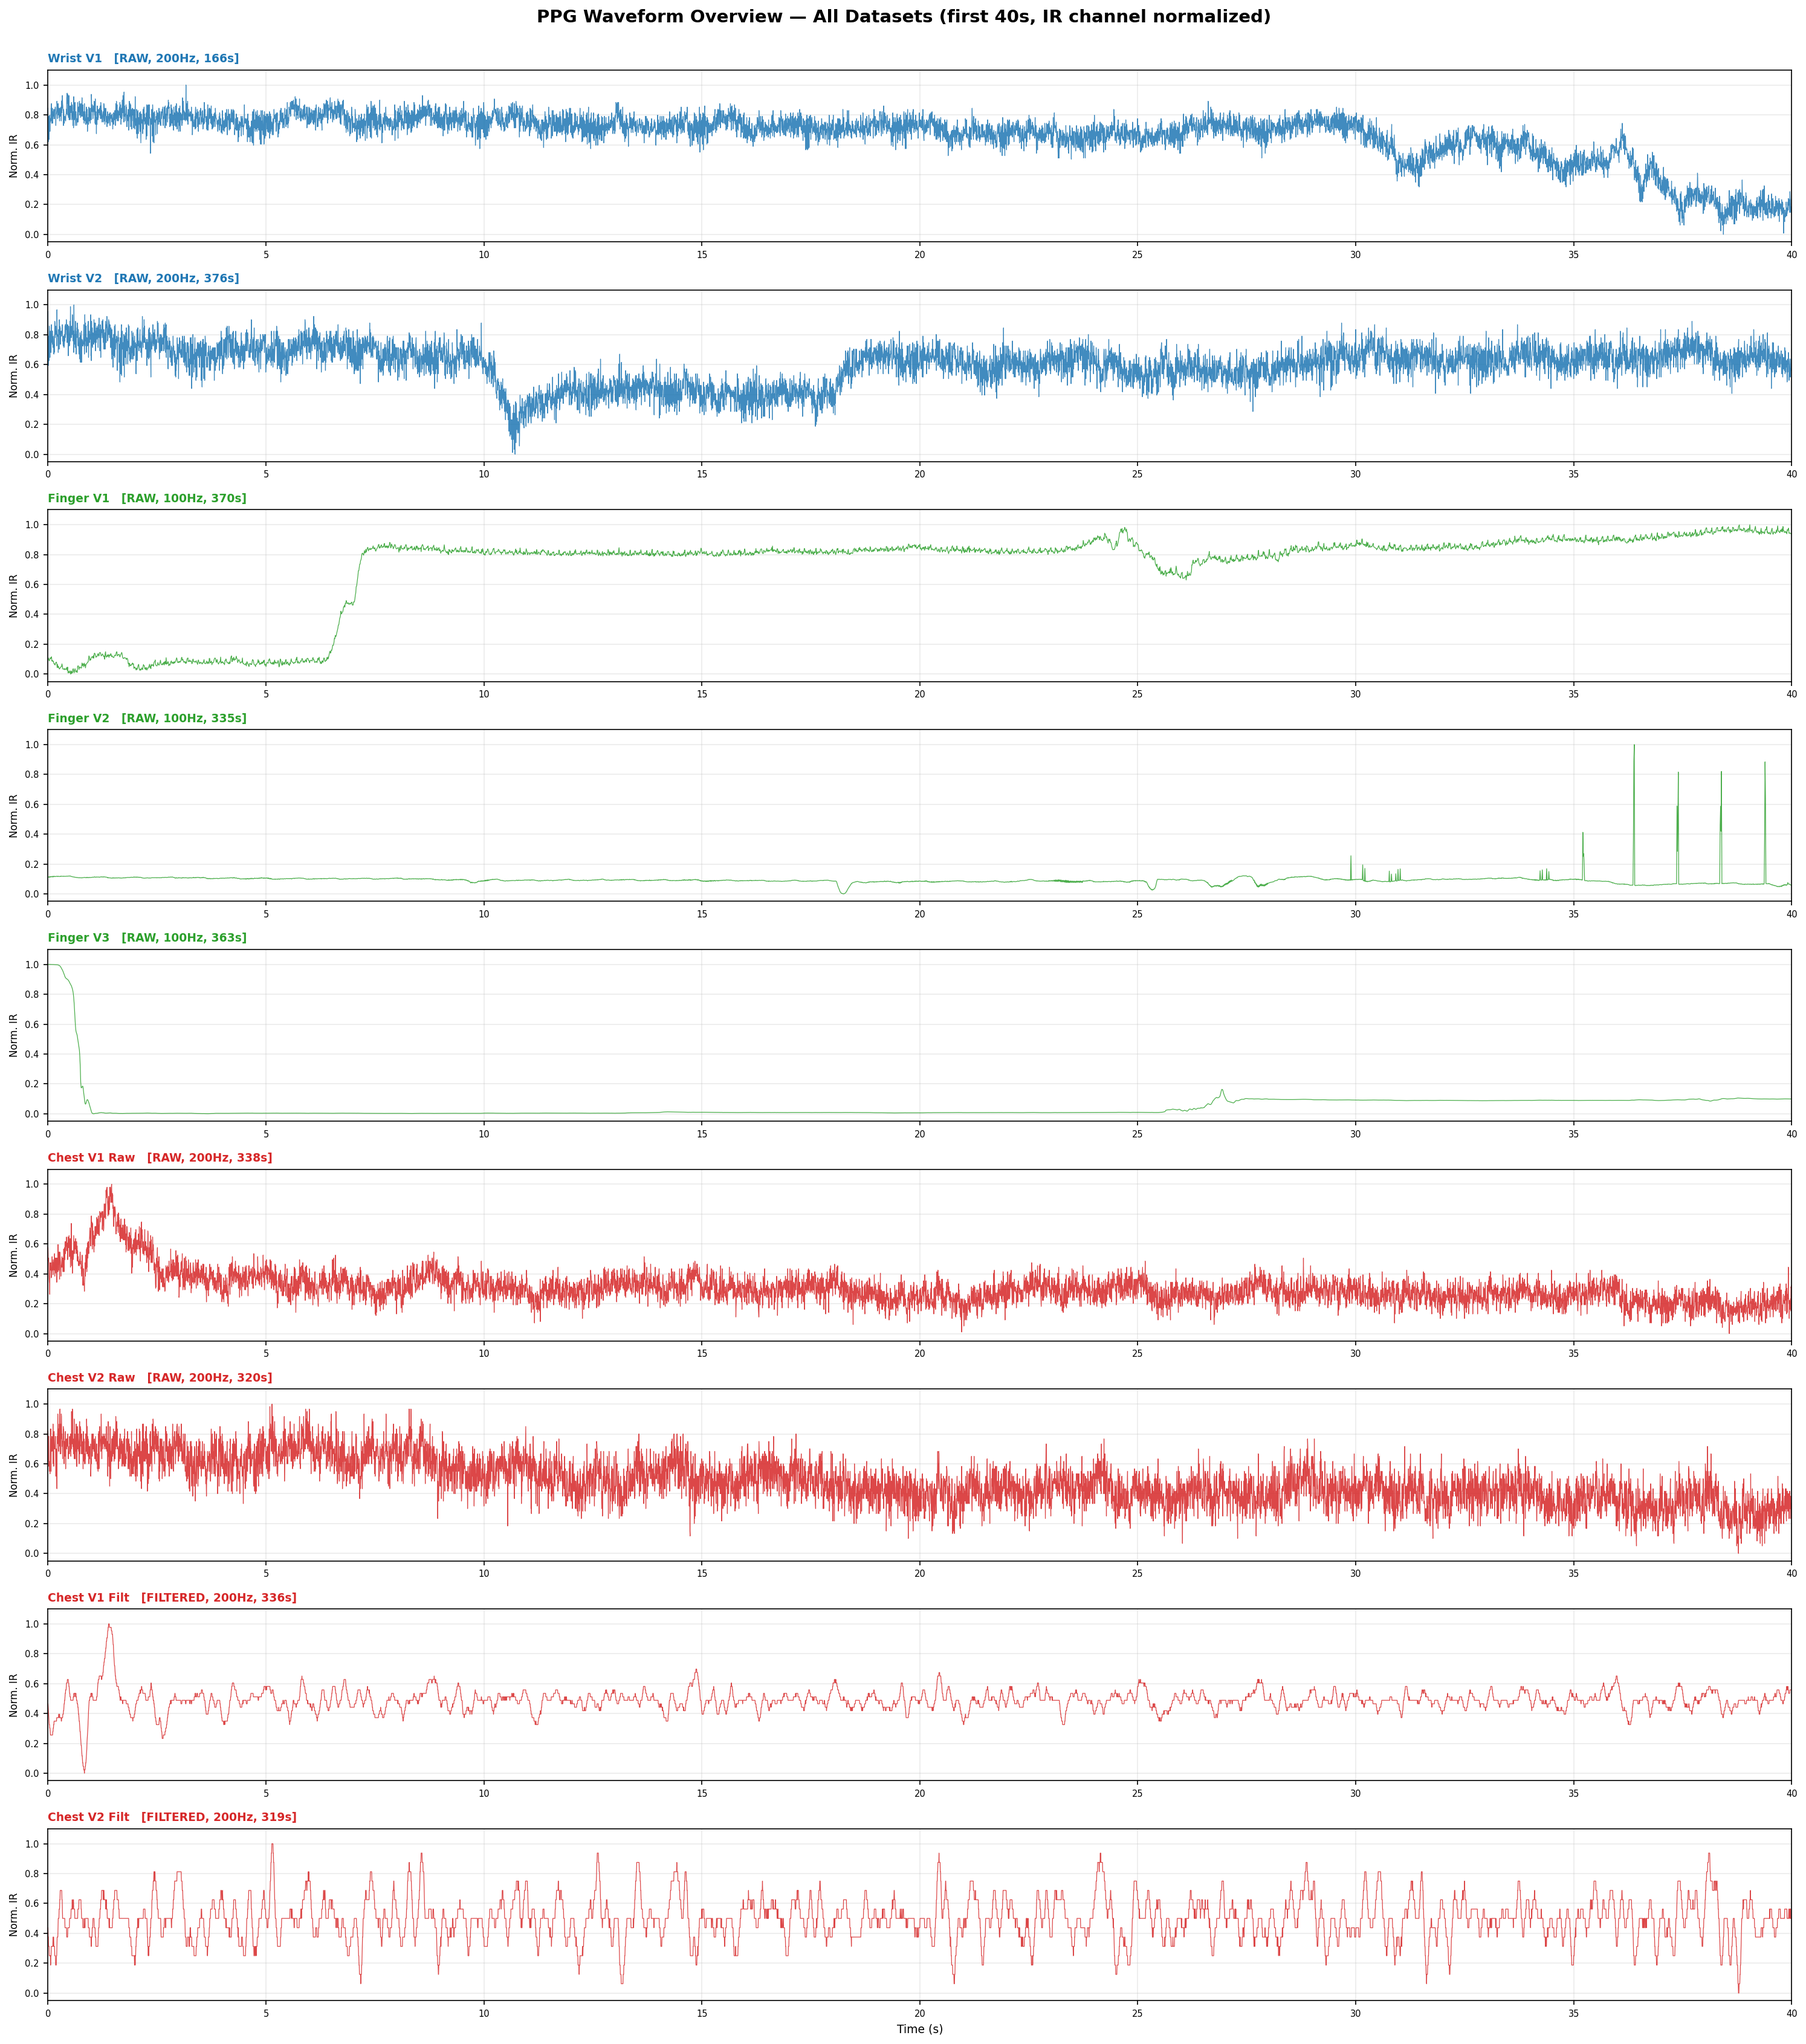
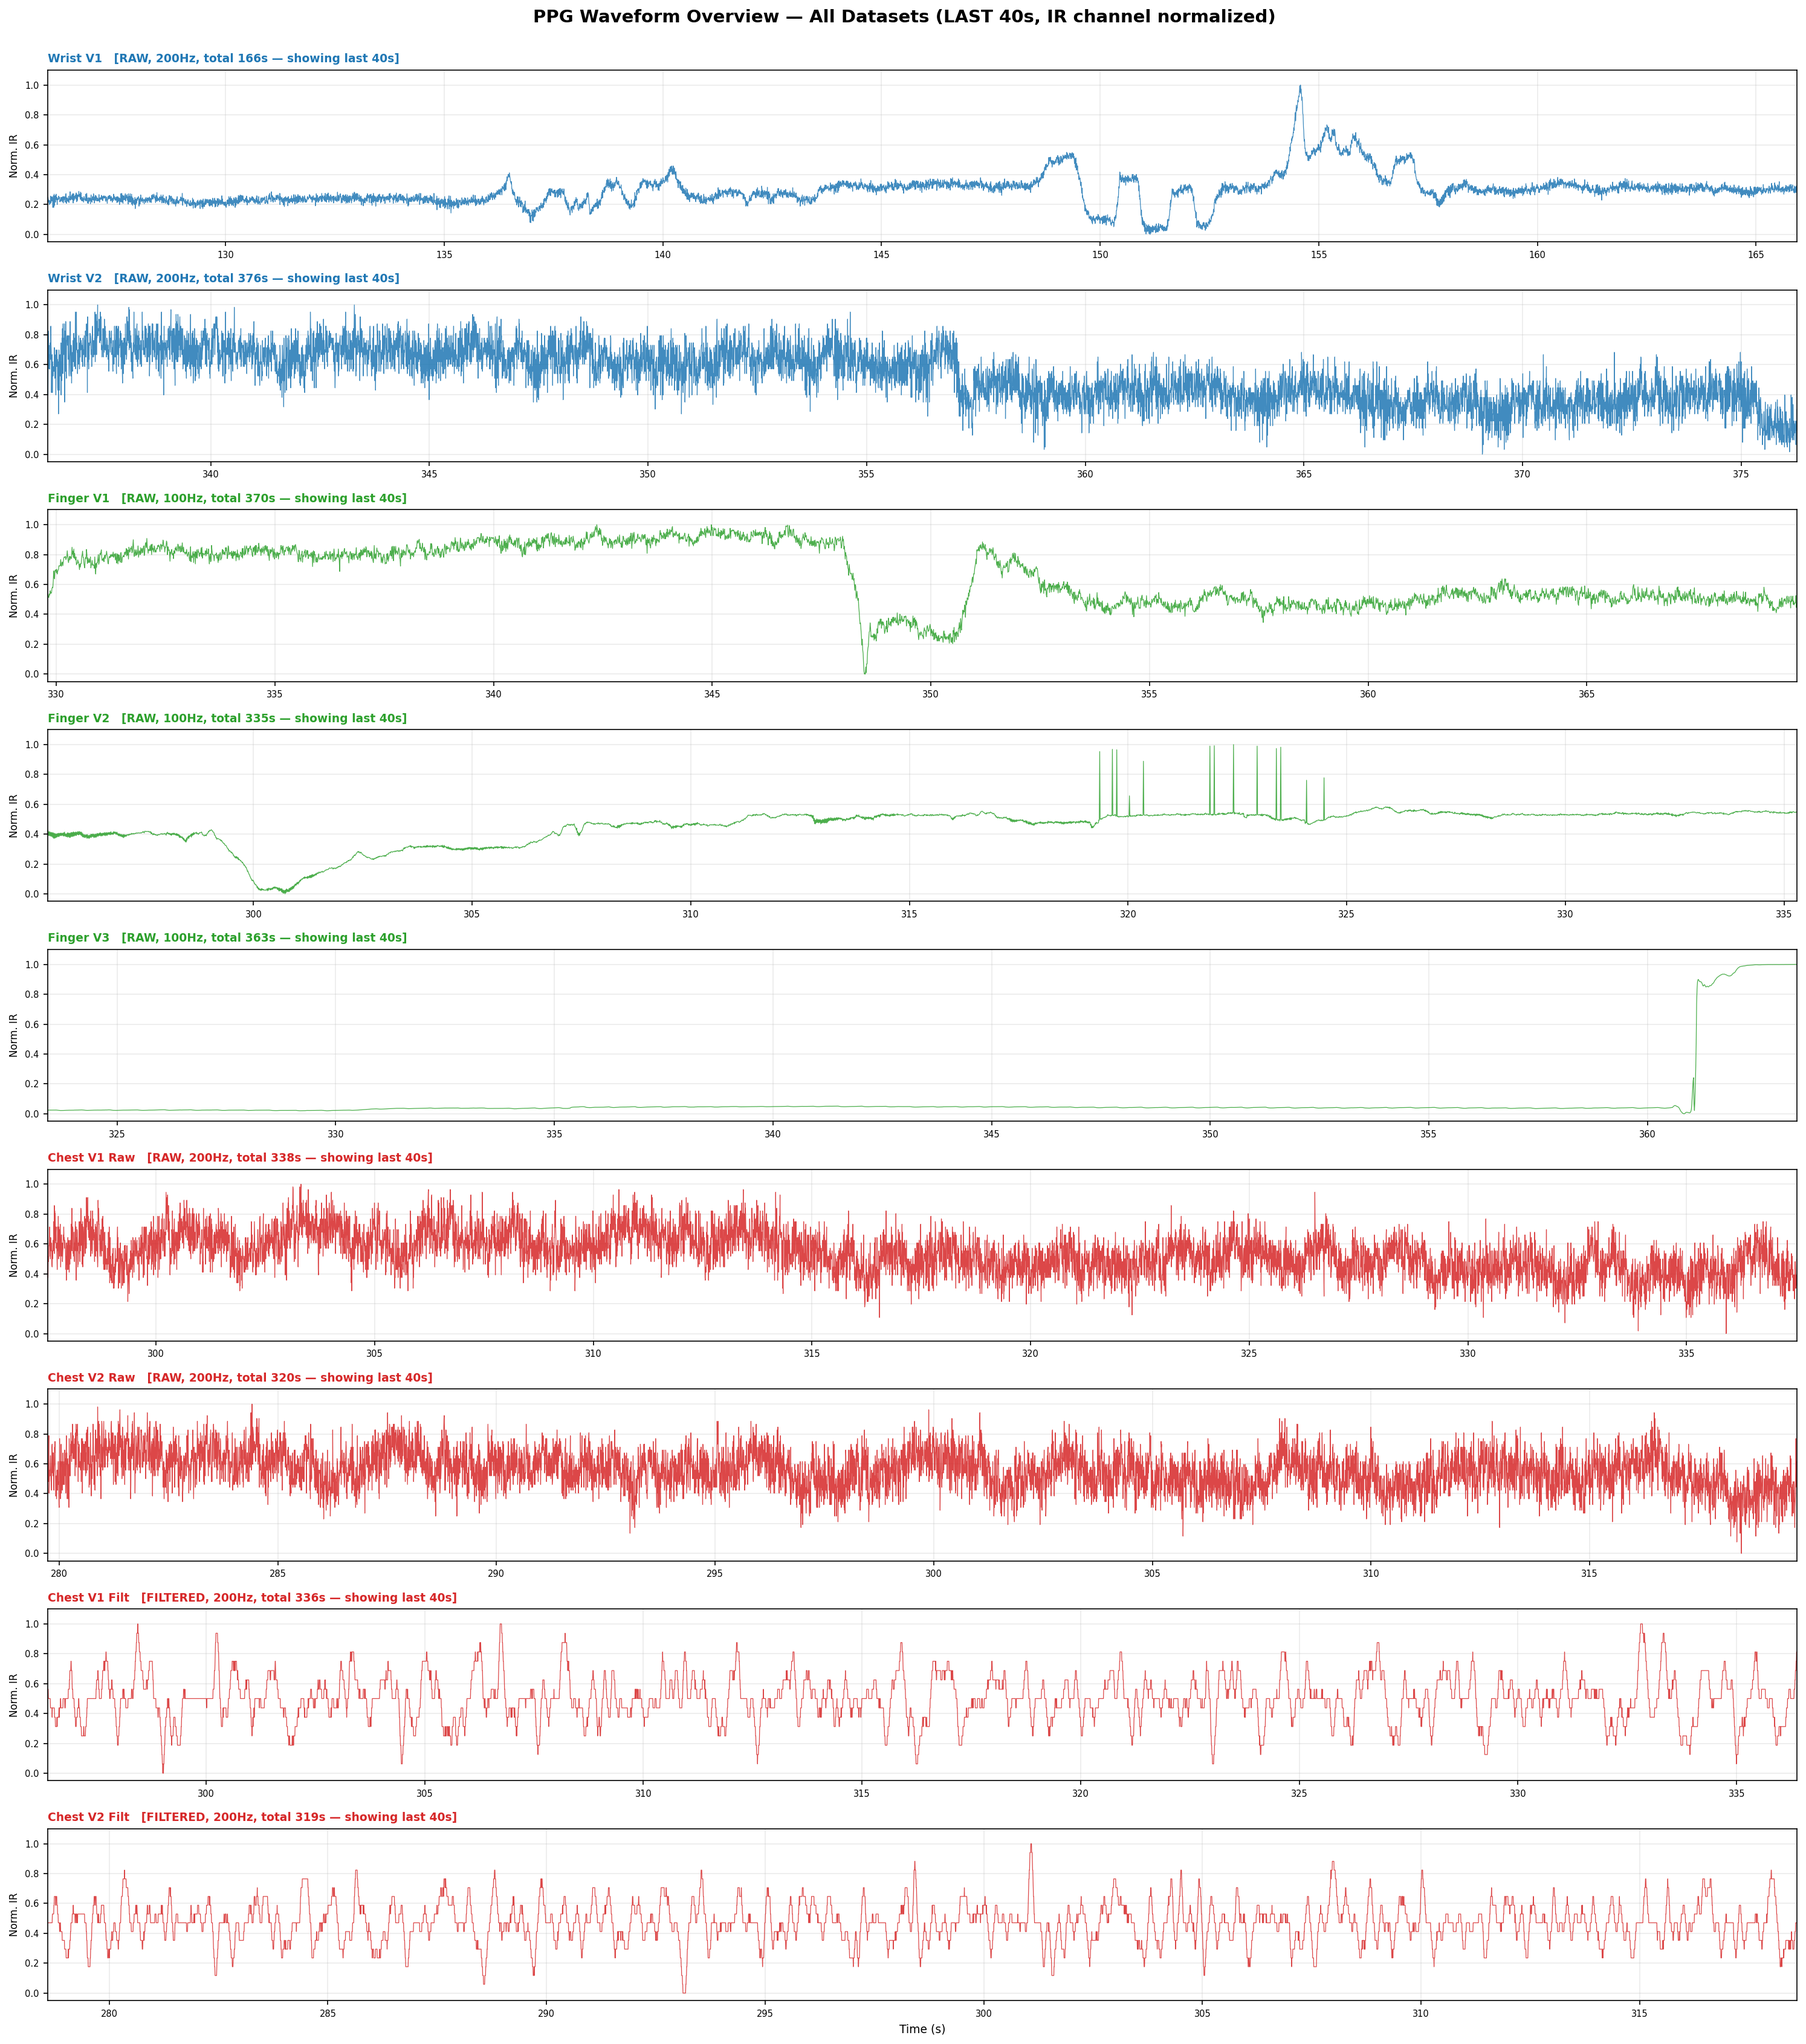
Use last 120s of data for metrics and visualizations
- Summary metrics now derived from the last TAIL_S=120s of each recording
  (post-settling, steady-state signal) instead of whole-file median
- Waveform overview shows last 40s of each file (not first 40s)
- PSD uses last 60s segment (not first 60s after t=10)
- Best waveform zoom uses last 15s window (not 5-20s from start)

Notable improvement: Finger V3 AC Amplitude 206 -> 302 counts in stable window

diff --git a/PPG analysis 0403/ppg_quality_report.py b/PPG analysis 0403/ppg_quality_report.py
@@ -53,6 +53,9 @@ THR = dict(
 
 GROUP_COLOR = {'Wrist': '#1f77b4', 'Finger': '#2ca02c', 'Chest': '#d62728'}
 
+# How many seconds from the END of each recording to use for stable summaries
+TAIL_S = 120.0   # last 2 minutes = post-settling, steady-state signal
+
 # ── Data loading ───────────────────────────────────────────────────────────────
 def load_dataset(label, group, subpath):
     fpath = os.path.join(BASE, subpath)
@@ -229,14 +232,23 @@ def compute_metrics(ds, win=10.0, step=2.0):
 
 # ── Summary per dataset ────────────────────────────────────────────────────────
 def summarise(ds, mets):
-    hrs = mets['hrs']
+    # Use only the last TAIL_S seconds of sliding windows for stable metrics
+    wt = mets['win_t']
+    tail = (wt >= wt[-1] - TAIL_S) if len(wt) > 0 else np.ones(len(wt), bool)
+
+    hrs     = mets['hrs'][tail]
+    pis_t   = mets['pis'][tail]
+    snrs_t  = mets['snrs'][tail]
+    amps_t  = mets['amps'][tail]
+    rrcvs_t = mets['rrcvs'][tail]
+
     valid_hr = (hrs > THR['hr_lo']) & (hrs < THR['hr_hi'])
-    pi_m    = float(np.nanmedian(mets['pis']))   if ds['ftype'] == 'raw' else np.nan
-    snr_m   = float(np.nanmedian(mets['snrs']))
-    amp_m   = float(np.nanmedian(mets['amps']))
-    hr_pct  = float(valid_hr.mean() * 100)       if len(hrs) > 0 else np.nan
-    rrcv_m  = float(np.nanmedian(mets['rrcvs'][valid_hr])) if valid_hr.any() else np.nan
-    agc_m   = float(ds['agc'])                   if not np.isnan(ds['agc']) else np.nan
+    pi_m    = float(np.nanmedian(pis_t))          if ds['ftype'] == 'raw' else np.nan
+    snr_m   = float(np.nanmedian(snrs_t))
+    amp_m   = float(np.nanmedian(amps_t))
+    hr_pct  = float(valid_hr.mean() * 100)        if len(hrs) > 0 else np.nan
+    rrcv_m  = float(np.nanmedian(rrcvs_t[valid_hr])) if valid_hr.any() else np.nan
+    agc_m   = float(ds['agc'])                    if not np.isnan(ds['agc']) else np.nan
 
     def grade(val, g, f):
         if np.isnan(val): return 'N/A'
@@ -258,16 +270,16 @@ def summarise(ds, mets):
 
 # ── PLOT 1: Waveform Overview ──────────────────────────────────────────────────
 def plot_waveforms(all_ds):
-    SHOW_S = 40  # seconds to display
-    labels = [d['label'] for d in all_ds]
+    SHOW_S = 40  # seconds to display from the END of each recording
     n = len(all_ds)
     fig, axes = plt.subplots(n, 1, figsize=(20, 2.5 * n), sharex=False)
-    fig.suptitle('PPG Waveform Overview — All Datasets (first 40s, IR channel normalized)',
+    fig.suptitle('PPG Waveform Overview — All Datasets (LAST 40s, IR channel normalized)',
                  fontsize=14, fontweight='bold', y=1.0)
 
     for ax, ds in zip(axes, all_ds):
         t, ir = ds['t'], ds['ir']
-        m = t <= SHOW_S
+        t_start = max(0.0, ds['duration'] - SHOW_S)
+        m = t >= t_start
         t_s, ir_s = t[m], ir[m]
         if len(ir_s) == 0:
             ax.text(0.5, 0.5, 'No data', ha='center', va='center', transform=ax.transAxes)
@@ -275,10 +287,10 @@ def plot_waveforms(all_ds):
         ir_n = (ir_s - np.nanmin(ir_s)) / (np.nanmax(ir_s) - np.nanmin(ir_s) + 1e-9)
         color = GROUP_COLOR[ds['group']]
         ax.plot(t_s, ir_n, lw=0.6, color=color, alpha=0.85)
-        ax.set_xlim(0, SHOW_S)
+        ax.set_xlim(t_start, ds['duration'])
         ax.set_ylim(-0.05, 1.1)
         ax.set_ylabel('Norm. IR', fontsize=8)
-        tag = f"{ds['label']}   [{ds['ftype'].upper()}, {ds['fs']}Hz, {ds['duration']:.0f}s]"
+        tag = f"{ds['label']}   [{ds['ftype'].upper()}, {ds['fs']}Hz, total {ds['duration']:.0f}s — showing last {SHOW_S:.0f}s]"
         ax.set_title(tag, loc='left', fontsize=9, color=color, fontweight='bold')
         ax.tick_params(labelsize=7)
         ax.grid(True, alpha=0.25)
@@ -399,8 +411,8 @@ def plot_psd(all_ds):
         color = GROUP_COLOR[grp]
         for i, ds in enumerate(dslist):
             t, ir, fs = ds['t'], ds['ir'], ds['fs']
-            m  = t > 10
-            seg = ir[m][:fs * 60]  # use up to 60s after settling
+            m  = t >= (t[-1] - 60.0)   # last 60s of recording
+            seg = ir[m]
             seg = np.clip(seg, np.percentile(seg, 1), np.percentile(seg, 99))
             ac  = bandpass(seg - np.mean(seg), fs)
             f, p = sp.welch(ac, fs=fs, nperseg=min(len(ac), fs * 8))
@@ -561,14 +573,14 @@ def plot_best_waveforms(all_ds, all_mets):
     n = len(groups_present)
 
     fig, axes = plt.subplots(n, 1, figsize=(20, 4 * n))
-    fig.suptitle('Best PPG Waveform per Body Location — Raw & Bandpass Filtered (5-15s window)',
+    fig.suptitle('Best PPG Waveform per Body Location — Raw & Bandpass Filtered (last 15s)',
                  fontsize=13, fontweight='bold')
 
     for ax, grp in zip(np.atleast_1d(axes), groups_present):
         ds, _ = best[grp]
         t, ir, fs = ds['t'], ds['ir'], ds['fs']
-        # Use 5–15s window (post AGC settling)
-        m = (t >= 5) & (t < 20)
+        # Use last 15s of the recording (stable, post-settling)
+        m = t >= (ds['duration'] - 15.0)
         t_seg, ir_seg = t[m], ir[m]
         ir_clip = np.clip(ir_seg, np.percentile(ir_seg, 1), np.percentile(ir_seg, 99))
         ir_ac   = bandpass(ir_clip - np.mean(ir_clip), fs)
